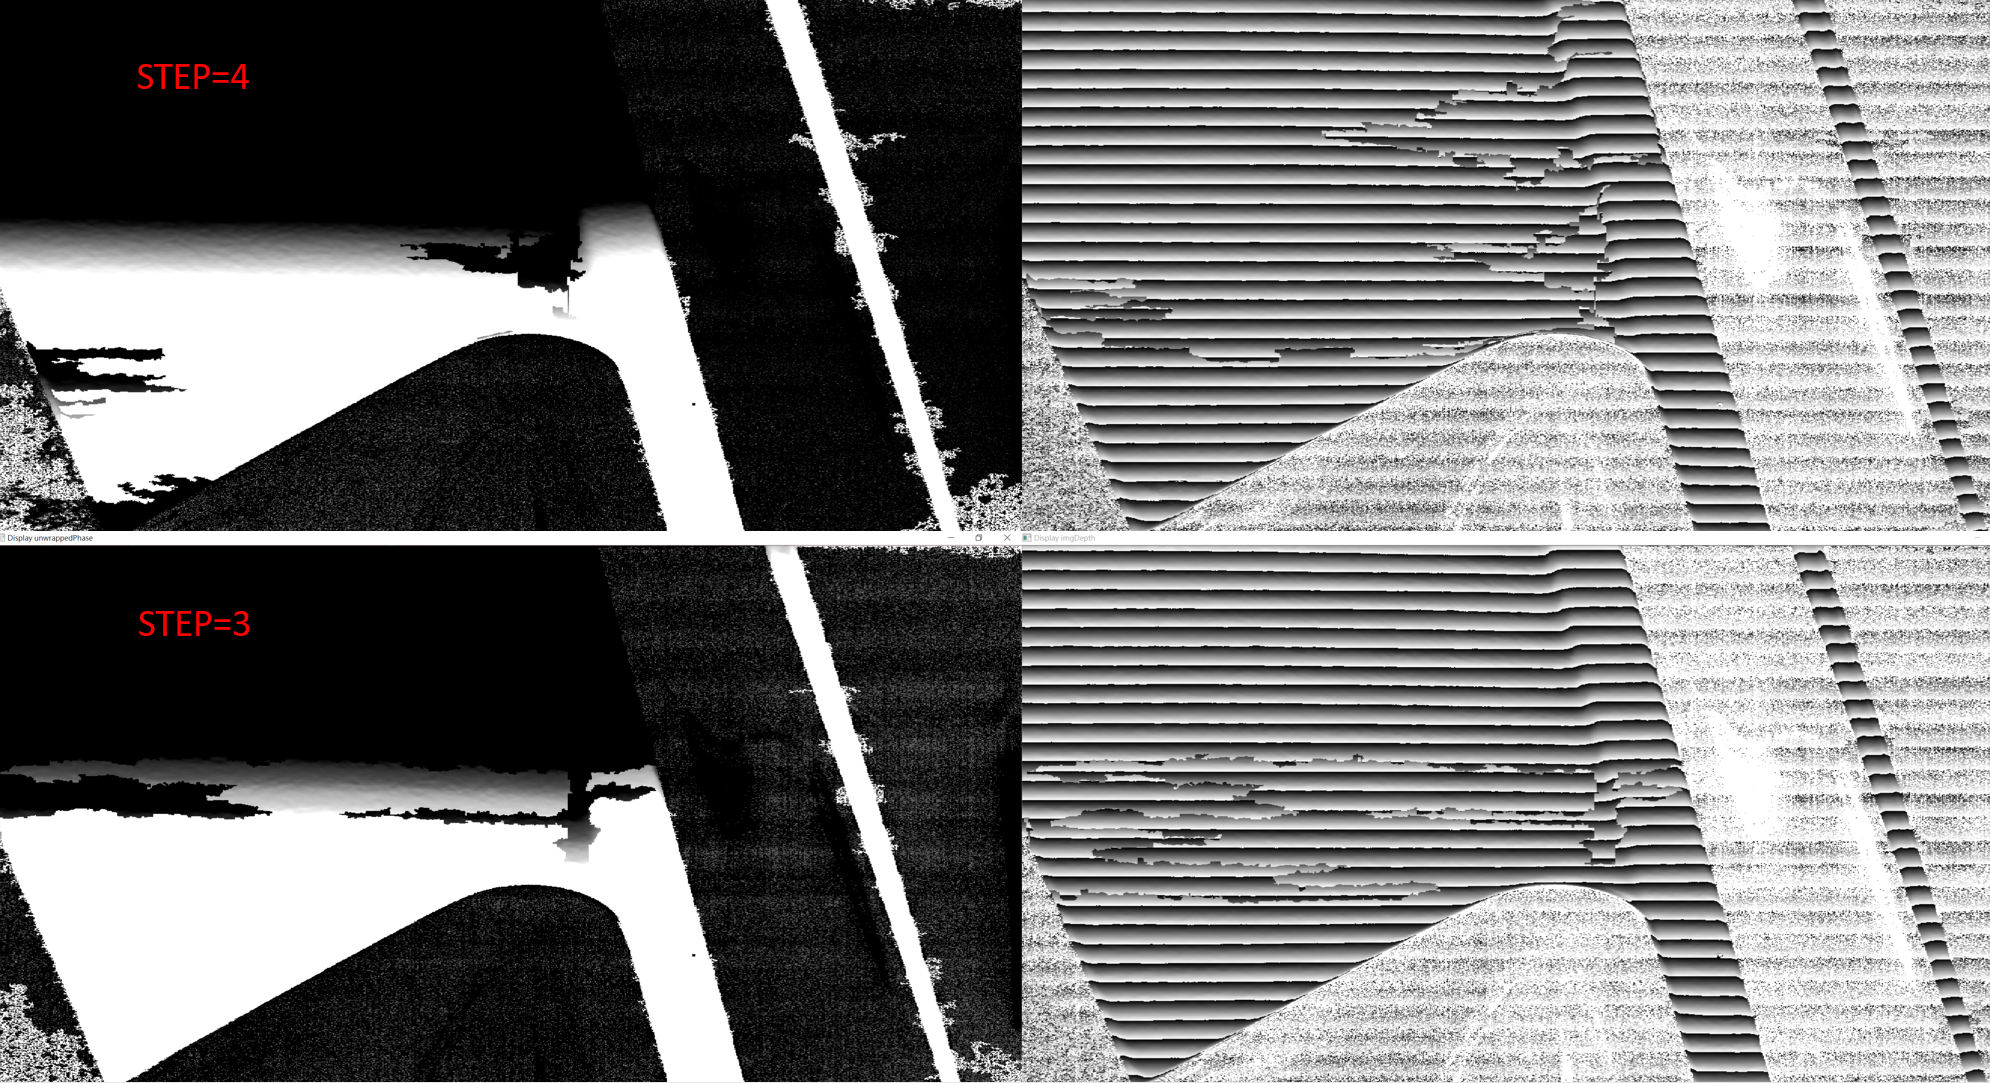
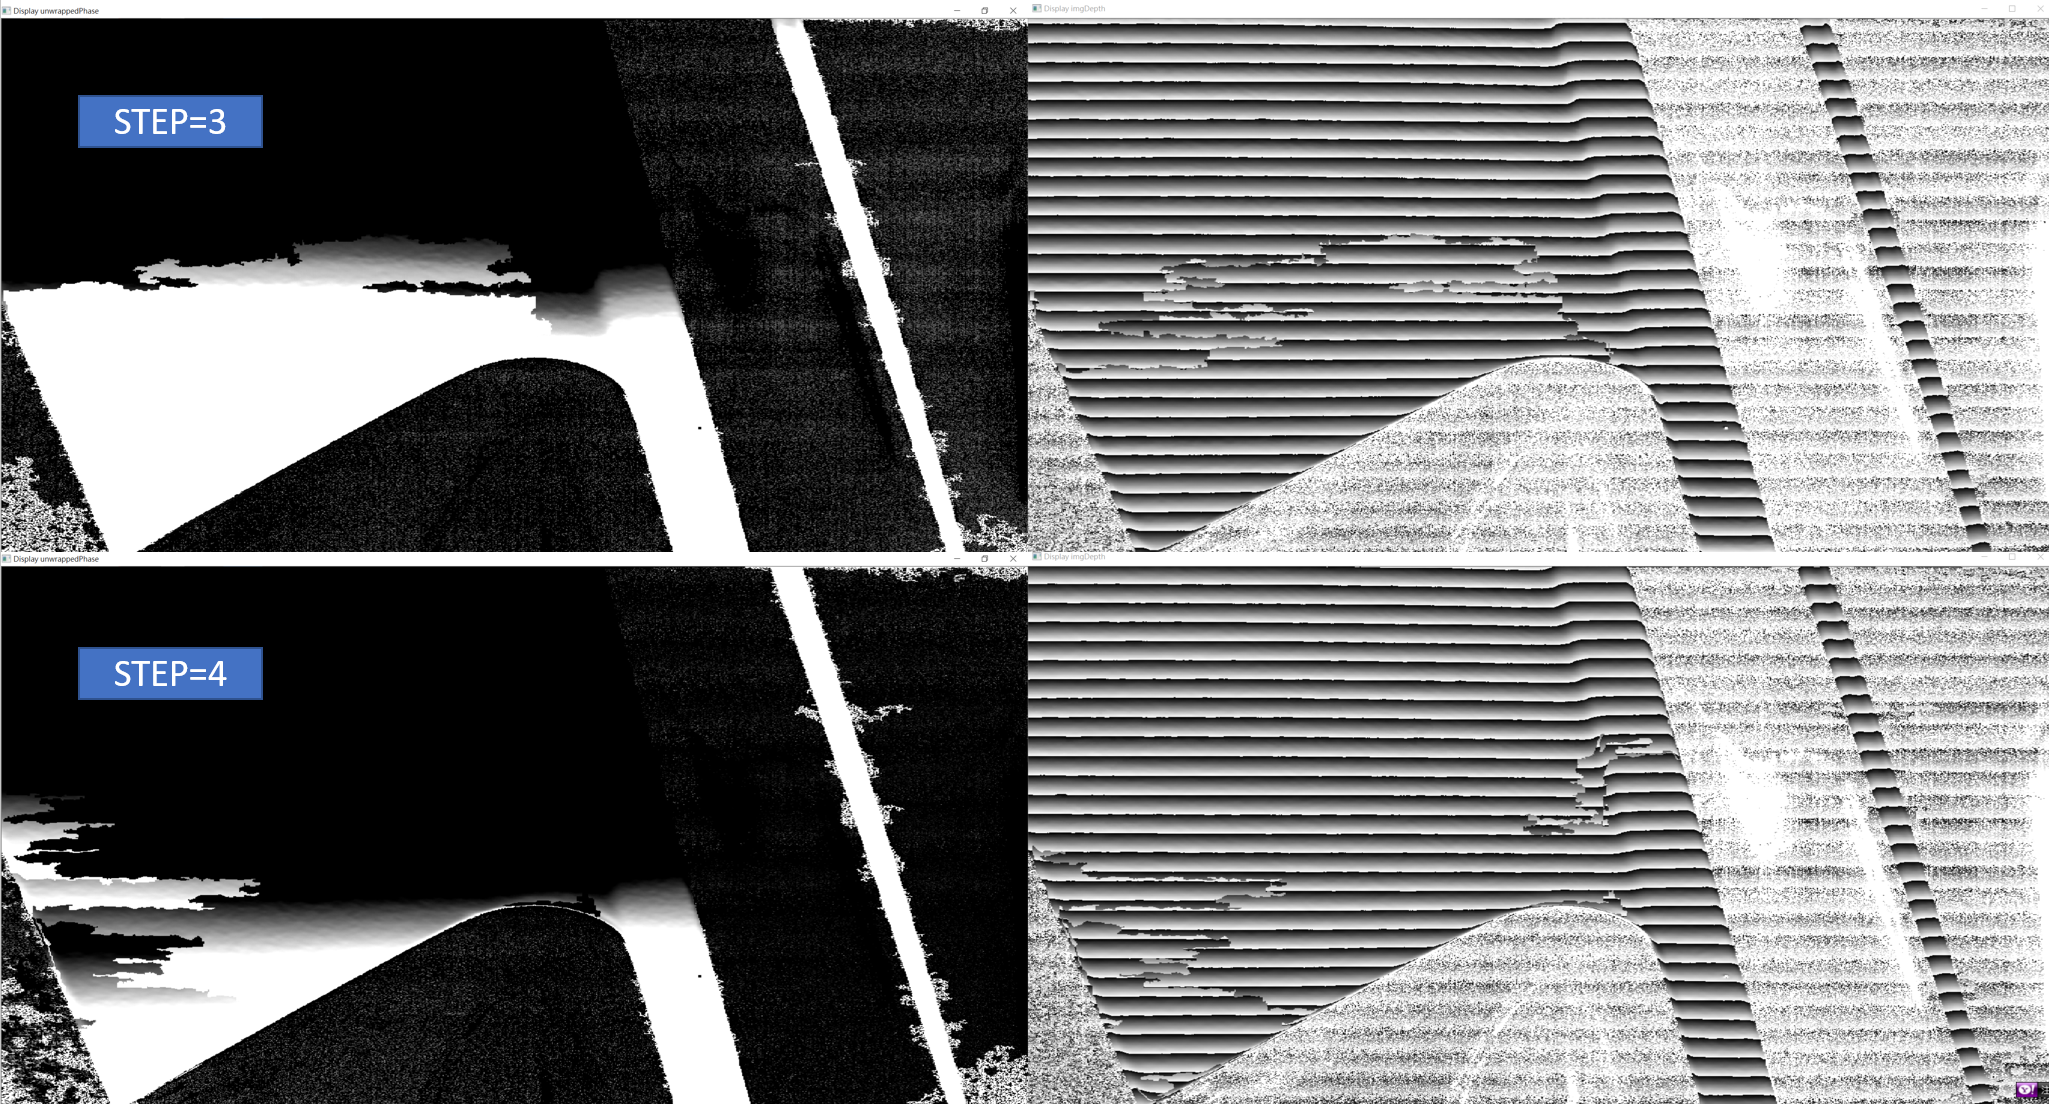
fix bugs

diff --git a/three_step_phase_shift.cpp b/three_step_phase_shift.cpp
@@ -25,13 +25,16 @@ ThreeStepPhaseShift::ThreeStepPhaseShift(
 	width = imgPhase1.cols;
 	height = imgPhase1.rows;
 
+	/* 2022-11-10 I crop the input data in my case, you shall get rid of this part if any. */
 	Rect crop_region(0, 0, width*0.5, height);
-	// specifies the region of interest in Rectangle form
-	imgPhase1 = imgPhase1(crop_region);
-	imgPhase2 = imgPhase2(crop_region);
-	imgPhase3 = imgPhase3(crop_region);
-	imgPhase4 = imgPhase4(crop_region);
-
+	if (true)
+	{
+		// specifies the region of interest in Rectangle form
+		imgPhase1 = imgPhase1(crop_region);
+		imgPhase2 = imgPhase2(crop_region);
+		imgPhase3 = imgPhase3(crop_region);
+		imgPhase4 = imgPhase4(crop_region);
+	}
 
 	width = imgPhase1.cols;
 	height = imgPhase1.rows;
@@ -282,10 +285,10 @@ void ThreeStepPhaseShift::computeQuality() {
 		for (int j = 1; j < width - 1; j++) {
 			int ii = i * step + j;
 			float phi = (float)imgWrappedPhase.at<float>(i , j); //ptrPhase[ii];
-			quality[ii] = sqdist(phi, (float)imgWrappedPhase.at<float>(i , j+1)) +
-				sqdist(phi, imgWrappedPhase.at<float>(i , j-1)) +
-				sqdist(phi, (float)imgWrappedPhase.at<float>(i , j+1)) +
-				sqdist(phi, (float)imgWrappedPhase.at<float>(i , j-1));
+			quality[ii] = sqdist(phi,	imgWrappedPhase.at<float>(i ,   j+1)) +
+				sqdist(phi,				imgWrappedPhase.at<float>(i ,   j-1)) +
+				sqdist(phi,				imgWrappedPhase.at<float>(i+1 , j)) +
+				sqdist(phi,				imgWrappedPhase.at<float>(i-1 , j));
 			quality[ii] /= range[ii];
 		}
 	}

diff --git a/demoApp.cpp b/demoApp.cpp
@@ -74,13 +74,12 @@ int main()
 	std::cout << "Start to generate depth image via n-step phase shifting algorithm\n";
 
 	int sample_id = 1;
-	int k_step = 4;
+	int k_step = 3;
 
-
-	string imgPath1 = "..\\pattern\\fringe0.png";
-	string imgPath2 = "..\\pattern\\fringe1.png";
-	string imgPath3 = "..\\pattern\\fringe2.png";
-	string imgPath4 = "..\\pattern\\fringe3.png";
+	string imgPath1 = ".\\pattern\\0.bmp";
+	string imgPath2 = ".\\pattern\\1.bmp";
+	string imgPath3 = ".\\pattern\\2.bmp";
+	string imgPath4 = ".\\pattern\\3.bmp";
 
 	Mat image = imread(imgPath1, CV_LOAD_IMAGE_COLOR);
 

diff --git a/README.md b/README.md
@@ -12,8 +12,12 @@ and calculate the distance of every point in the field of view.
 I also add 4-step algorithm on the basis of the previous codes and tested the results of depth calculation, ~~however, it seems that the outcome of 3-step looked better for surfacial defect task.~~
 The time cost is roughtly 6.12-6.27(s) on my core i71165 labtop, and no significant difererence between 4-step and 3-step.
 
+## updated 2022-11-10
+  - fixed mis-use of neighbor points in sqdist function
+  - added comment for crop operation
 
-## updated 
+
+## updated 2022-11-09
   - fixed theta value calculation problem.
   - fixed k_step input problem.
 
